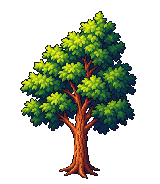
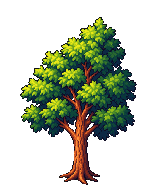
Center new tree roots inside their stone planting borders

diff --git a/tools/pixelart/pa_trees.py b/tools/pixelart/pa_trees.py
@@ -13,8 +13,10 @@ from PIL import Image
 from pa_core import hexrgb
 
 FRAMES = 1
-W, H = 160, 184
+W, H = 160, 192
 OX, OY = 80, 178
+# The world position is the middle of the root fan, not its lowest tip.
+ROOT_FRONT = 6
 SOURCE_DIR = Path(__file__).resolve().parent / "sources" / "trees"
 # Individual new paintings, with different crown silhouettes and branches.
 VARIANTS = [
@@ -69,7 +71,7 @@ def tree_frame(variant, frame=0):
     root_x = np.where(root_rows)[1]
     foot = round(float(np.median(root_x))) if len(root_x) else width//2
     left = max(4, min(W-width-4, OX-foot))
-    top = OY-height+1
+    top = OY-height+1+ROOT_FRONT
     img = np.zeros((H, W, 4), dtype=np.uint8)
     img[top:top+height, left:left+width] = native
     return img
@@ -81,17 +83,18 @@ def tree_sheet(variant):
 
 # ------------------------------------------------------------------ tree pit
 
-PIT_W, PIT_H = 56, 30
-PIT_OX, PIT_OY = 28, 15
+PIT_W, PIT_H = 80, 44
+PIT_OX, PIT_OY = 40, 22
+PIT_HALF = 1.125
 
 
 def tree_pit(seed=0):
-    """A square pit in the pavement (1.5 m): stone kerb, soil, grass tufts,
+    """A square pit in the pavement (2.25 m): stone kerb, soil, grass tufts,
     small leafy plants and a few yellow flowers, as a flat iso diamond."""
     kerb = [hexrgb(c) for c in ("2e2a36", "4a4656", "6a6878", "8a8a98", "b4b4c0", "d6d6de")]
     soil = [hexrgb(c) for c in ("140c10", "22161a", "30211f", "3e2c26")]
     img = np.zeros((PIT_H, PIT_W, 4), dtype=np.uint8)
-    half = 0.75
+    half = PIT_HALF
 
     def put(x, y, col):
         X, Y = x + PIT_OX, y + PIT_OY

diff --git a/tools/pixelart/pa_tiles.py b/tools/pixelart/pa_tiles.py
@@ -884,7 +884,7 @@ def export():
     for v in range(len(pa_trees.VARIANTS)):
         save(pa_trees.tree_frame(v), f"props/tree_{v}.png")
         save(pa_trees.tree_pit(v), f"props/tree_pit_{v}.png")
-        man["props"][f"tree_{v}"] = {"file": f"props/tree_{v}.png", "ox": pa_trees.OX, "oy": pa_trees.OY, "lights": [],
+        man["props"][f"tree_{v}"] = {"file": f"props/tree_{v}.png", "ox": pa_trees.OX, "oy": pa_trees.OY, "lights": [], "size": pa_trees.PIT_HALF*2,
                                      "pit": {"file": f"props/tree_pit_{v}.png", "ox": pa_trees.PIT_OX, "oy": pa_trees.PIT_OY}}
     man["props"]["tree"] = man["props"]["tree_0"]
     for name, (prims, pix, top) in {"bush": (*planter_bush(2), 0.45)}.items():

diff --git a/tools/pixelart/sources/trees/GENERATION.md b/tools/pixelart/sources/trees/GENERATION.md
@@ -2,7 +2,7 @@
 
 Ces trois peintures ont été générées avec l’outil intégré image_gen à partir de la référence fournie par le joueur le 2 octobre 2026. Aucun ancien arbre du jeu n’a été utilisé comme référence. Les deuxième et troisième peintures utilisent la première nouvelle peinture pour conserver le style.
 
-`pa_trees.py` prépare les sources sur une grille native de 160 × 184 pixels, avec des hauteurs distinctes, une palette de 48 couleurs sans tramage, une transparence binaire et un point d’ancrage au pied du tronc. Les sources ci-dessous sont nécessaires pour régénérer les sprites lors de la construction du jeu. Les carrés de plantation sont des éléments de sol séparés.
+`pa_trees.py` prépare les sources sur une grille native de 160 × 192 pixels, avec des hauteurs distinctes, une palette de 48 couleurs sans tramage et une transparence binaire. Le point d’ancrage est au centre de l’éventail des racines : leur pointe avant dépasse de six pixels vers le bas du point au sol. Les carrés de plantation, séparés des arbres, mesurent 2,25 m de côté pour laisser les racines à l’intérieur des bordures. Cette dimension est aussi déclarée dans le manifeste pour conserver les dégagements autour des parkings et voies d’accès. Les sources ci-dessous sont nécessaires pour régénérer les sprites lors de la construction du jeu.
 
 ## tree_full.png
 
